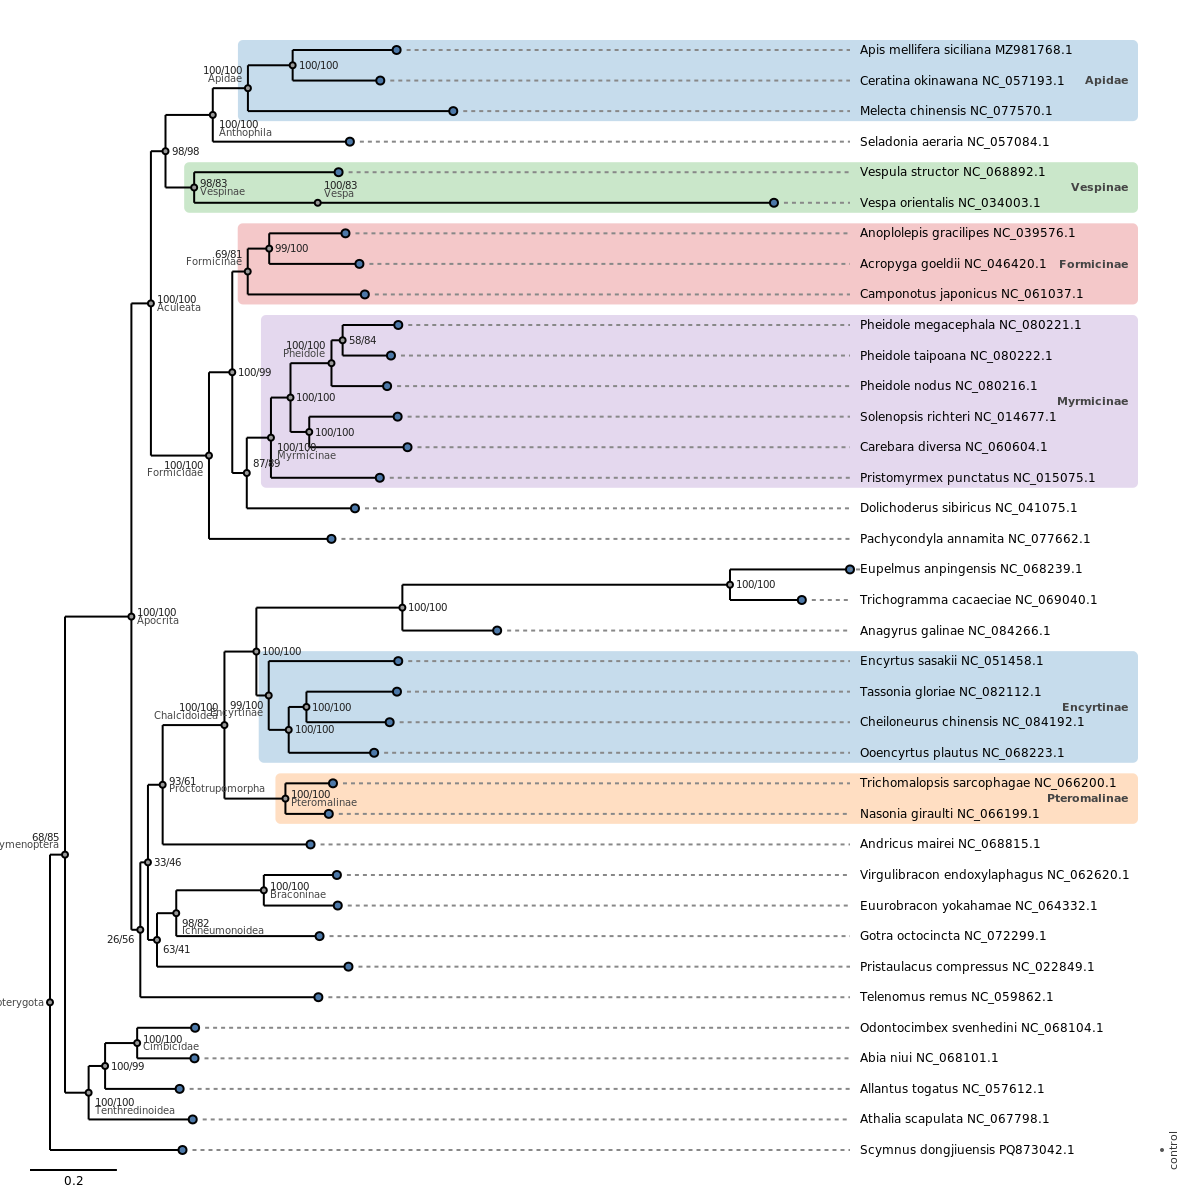
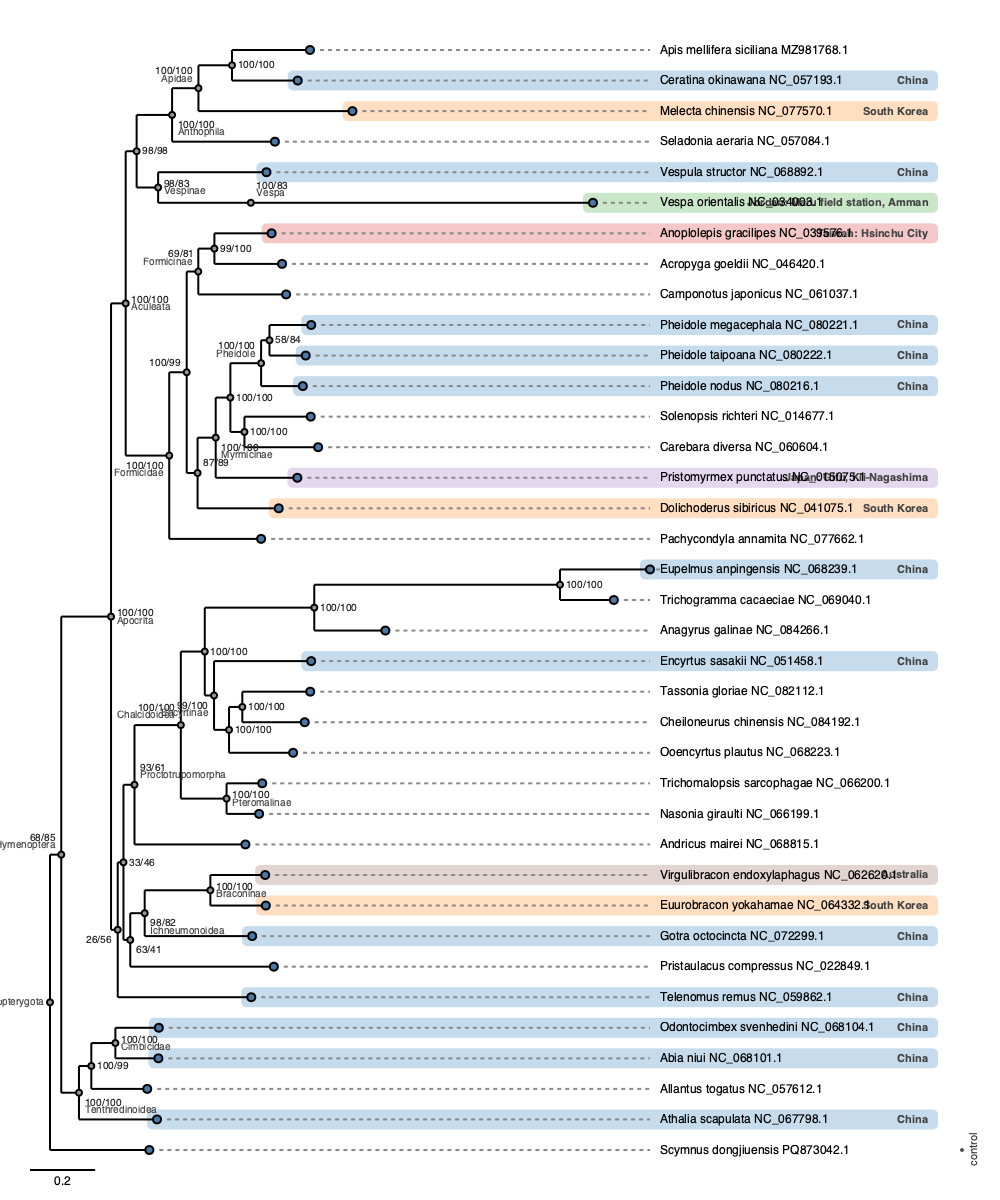
Update insects example

diff --git a/examples/insects.py b/examples/insects.py
@@ -12,14 +12,13 @@ tree.tips.rename("{species} {mitogenome_id}")
 
 # tree.metadata("taxonomy").highlight(values=["Apis"], allow_single_tip=True, label_position="center_right", palette="tab10")
 # tree.metadata("taxonomy").highlight(values=["Pheidole"], label_position="center_right", palette="tab10")
-tree.metadata("taxonomy").highlight(depth=17, label_position="center_right", palette="tab10")
-tree.metadata("taxonomy").highlight(values=["Scymnus"], label_position="center_right", palette="tab10")
+tree.metadata("geo").highlight(label_position="center_right", palette="tab10", allow_single_tip=True)
 
 tree.metadata("taxonomy").label_nodes(show_duplicates=False)
 
 tree.metadata("group").panel(values=["control"])
 
-tree.savefig("insects_tree.png", size=(1200, 1200))
+tree.savefig("insects_tree.png", size=(1000, 1200))
 
 tree.to_dataframe().to_csv("insects_tree.csv", index=False)
 
